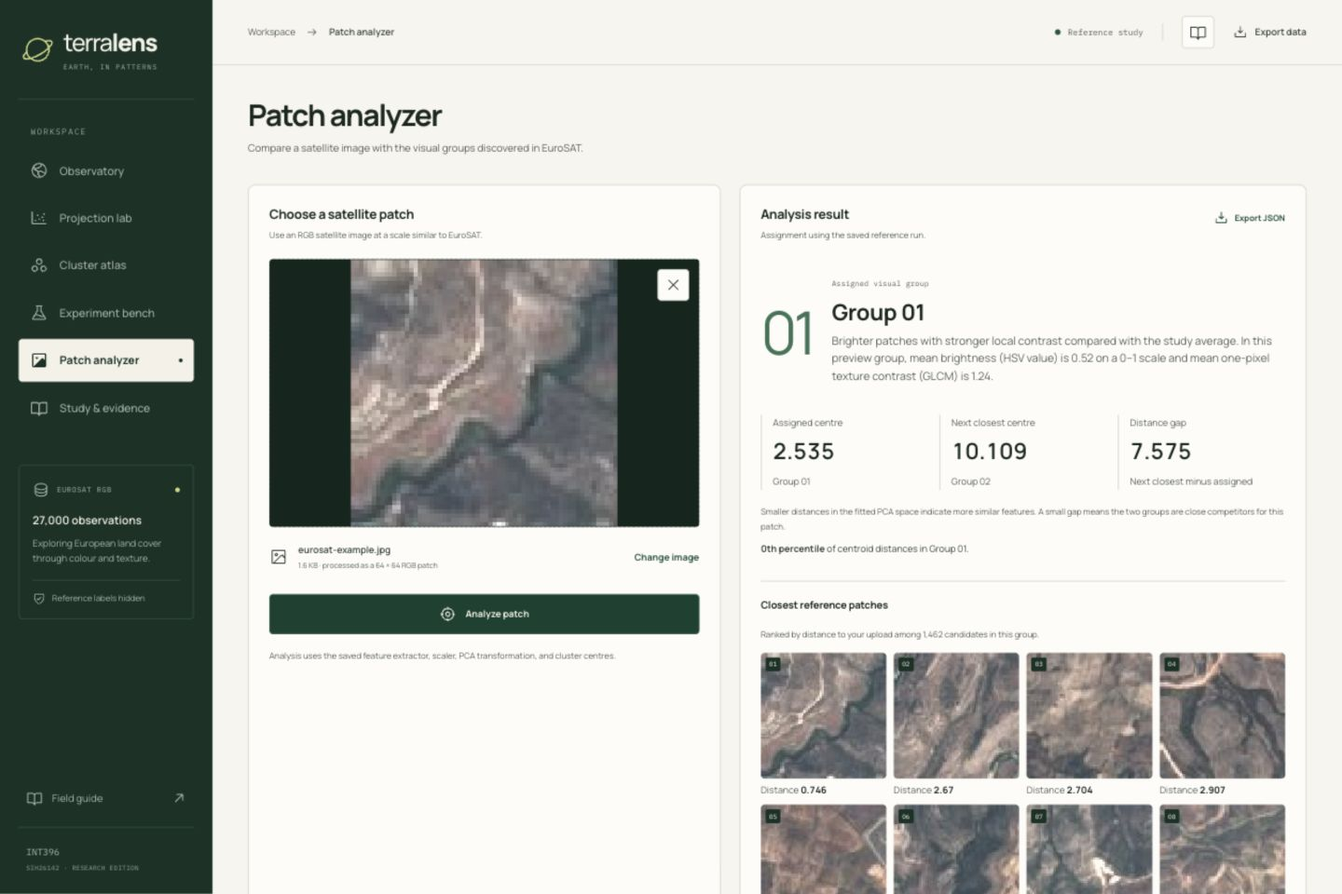
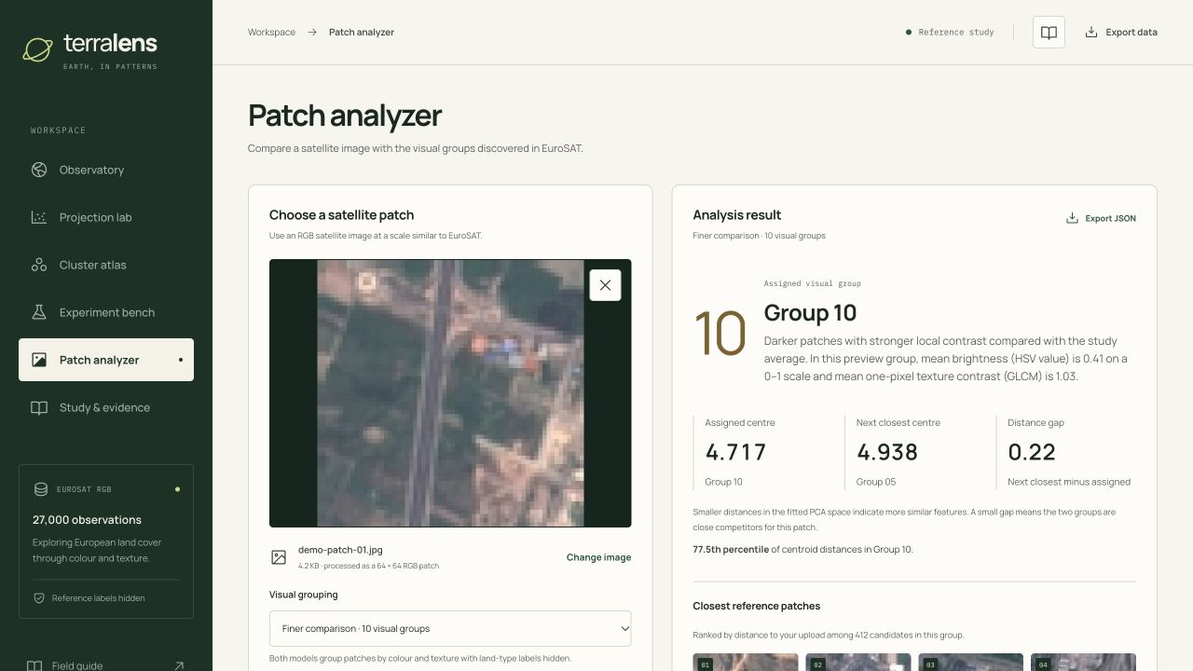
Refresh submission evidence for both upload groupings [skip render]

diff --git a/scripts/build_deliverables.py b/scripts/build_deliverables.py
@@ -451,7 +451,7 @@ def build_report(study, selected, audit, team, links, figures):
         WorkflowDiagram(), Spacer(1, 10),
         table([["Component", "Responsibility"], ["Offline study", "Validate archive, describe images, compare settings and freeze selection"], ["Reference artifacts", "Fitted transforms, centroids, measured JSON and anonymous previews"], ["Online application", "Inspect evidence, run independent bounded jobs and analyse uploads"]], [115, 372]),
         heading("Upload workflow"),
-        para("Upload validation -> RGB conversion and fixed resize -> 78 descriptors -> saved imputer -> saved standardiser -> saved PCA -> nearest saved K-Means centroid -> the result, runner-up gap and ranked neighbours from the assigned group of the bundled reference cohort. The upload uses the frozen transforms and centres."),
+        para("Upload validation -> RGB conversion and fixed resize -> 78 descriptors -> saved imputer -> saved standardiser -> saved PCA -> nearest saved K-Means centroid -> the result, runner-up gap and ranked neighbours from the assigned group of the bundled reference cohort. Users can choose the two-group study reference or the fitted ten-group comparison and rerun the same image. Each mode reports its own groups, nearest examples and separate category mix."),
         heading("Runtime experiments"),
         para("A separate bounded experiment fits its own preprocessing, PCA and K-Means on an anonymous compact study sample. Optional t-SNE uses the same retained PCA cohort. Each live run has its own coordinates and group IDs. The API serialises jobs to control resources and keeps the reference model immutable."),
         heading("Tools and technologies"),
@@ -469,7 +469,7 @@ def build_report(study, selected, audit, team, links, figures):
     shots = [
         ("observatory", "Application: Observatory", "The overview connects genuine patch imagery with the selected reference study, dataset audit and numerical evidence."),
         ("projection-lab", "Application: Projection Lab", "Linked patch identity supports comparison of PCA and saved t-SNE views on the same visual cohort. Parameter settings and interpretation cautions are visible."),
-        ("patch-analyzer", "Application: Patch Analyzer", "A validated upload uses the saved reference pipeline. The result shows both centroid distances, their gap, ranked reference patches and a PCA location. The JSON export captures the result and its interpretation warnings."),
+        ("patch-analyzer", "Application: Patch Analyzer", "The grouping selector applies the fitted two-group reference or ten-group comparison to a validated upload. The result includes both centroid distances, their gap, ranked neighbours and a PCA location. The JSON export identifies the selected run."),
         ("experiment-bench", "Application: Experiment Bench", "This live 200-patch run fits K=3 with 95% PCA and t-SNE perplexity 30. Both plots share patch IDs and K-Means colours. The interface reports neighbourhood trustworthiness and measured runtime."),
         ("reference-audit", "Application: Reference Audit", "The separate audit compares the frozen groups with the EuroSAT categories. Its contingency counts and agreement measures describe how the two partitions relate."),
     ]

diff --git a/docs/CODEBASE_GUIDE.md b/docs/CODEBASE_GUIDE.md
@@ -1,6 +1,6 @@
 # TerraLens codebase guide
 
-Start with a patch in the application, then follow its request through the files below. TerraLens has three numerical workflows with different fitting rules. The offline study fits and selects a reference model. Patch Analyzer applies that model to one image. Experiment Bench fits a new model on a bounded sample of study descriptors.
+Start with a patch in the application, then follow its request through the files below. TerraLens has three numerical workflows with different fitting rules. The offline study fits and selects a reference model. Patch Analyzer applies the reference or the saved ten-group comparison to one image. Experiment Bench fits a new model on a bounded sample of study descriptors.
 
 ## Where to start
 
@@ -16,12 +16,12 @@ Start with a patch in the application, then follow its request through the files
 
 ## Trace one uploaded image
 
-1. Choose a satellite RGB patch in **Patch Analyzer** and click **Analyze patch**. The frontend sends the file as multipart form data to `POST /api/analyze`.
+1. Choose a satellite RGB patch and a visual grouping in **Patch Analyzer**, then click **Analyze patch**. The frontend sends the file as multipart form data to `POST /api/analyze` with the selected run ID.
 2. The analyzer route and `uploads.py` enforce the upload limits, decode the actual image, convert it to RGB and resize it to 64 × 64. The image worker passes the decoded patch to the numerical code and releases the upload buffer after processing.
-3. `features.py` computes the same 78 colour, texture and edge descriptors used offline. `inference.py` applies the fitted imputer, scaler and PCA from `artifacts/model.joblib`. The 2D marker uses the first two PCA coordinates. The centroid comparison uses the full retained PCA vector.
+3. `features.py` computes the same 78 colour, texture and edge descriptors used offline. `inference.py` applies the fitted imputer, scaler and PCA from the fitted model bundle. `model.joblib` holds the study reference, and `comparison-model.joblib` holds the ten-group fit. The 2D marker uses the first two PCA coordinates. The centroid comparison uses the full retained PCA vector.
 4. The frozen K-Means model supplies the group and distances to the assigned and runner-up centroids. The gap is `runner-up distance - assigned distance`. A small gap means those two distances are similar. The reference percentile compares the assigned distance with recorded distances for that group, which helps distinguish a typical assignment from a patch far from its centroid.
 5. The backend ranks compact study patches from the assigned group by their distances to the uploaded patch in retained PCA space and returns up to eight neighbours. `neighbor_scope` records how many candidates it searched. These query-specific neighbours can change when the image changes. The fixed representatives are the patches nearest the group's centroid. The response includes `run_id` so the displayed distances and examples can be traced to that reference.
-6. Open the group category mix separately if asked about land cover. It describes the proportions of EuroSAT reference categories within the **whole assigned group** after the model was frozen. Use it to discuss overlap between visual groups and annotated classes. The percentage refers to the group aggregate and cannot establish the uploaded patch's category.
+6. Open the group category mix separately if asked about land cover. It describes the proportions of EuroSAT reference categories within the **whole assigned group** after the model was frozen. The audit and neighbor list follow the selected run. Use them to discuss overlap between visual groups and annotated classes. The percentage refers to the group aggregate and cannot establish the uploaded patch's category.
 7. Export the analysis JSON. It records the returned coordinates, distances, neighbours, run ID and feature measurements. The export uses the numerical response and excludes the uploaded image bytes.
 
 For a demo, show two different patches and point to the changing neighbour order. Explain the runner-up gap, then open the aggregate category mix to show why a visual group can contain multiple annotated classes. In the browser's network view, match `run_id`, `cluster`, `pca`, `distance`, `alternate_distance`, `margin` and `neighbors` in the `POST /api/analyze` response with the JSON download.
@@ -41,9 +41,9 @@ PCA stores a linear transformation that applies to one new feature vector. The s
 | Artifact | When it is produced | Where it is used |
 | --- | --- | --- |
 | `study.json` and `config.json` | Offline study with fixed seeds and a recorded selection rule | Reference metrics, PCA axes, saved t-SNE comparison, settings and provenance. |
-| `model.joblib` | Offline reference fit on study rows | Saved imputer, scaler, PCA, K-Means and distance distributions for uploaded patches. |
+| `model.joblib` and `comparison-model.joblib` | Offline two-group reference and ten-group comparison fits on study rows | Saved imputer, scaler, PCA, K-Means and distance distributions for uploaded patches. |
 | `compact_features.npz` and `thumbnails/` | Offline selection of anonymous study descriptors and preview images | Bounded live experiments, query-specific neighbour lookup and patch inspection. The raw dataset archive is unnecessary for this demonstration. |
-| `split_manifest.json`, `features.json` and `audit.json` | Offline preparation and post-selection audit | Check the anonymous study/holdout boundary and descriptor definitions. Open the audit to interpret agreement and category proportions after fitting. |
+| `split_manifest.json`, `features.json` and `audit.json` | Offline preparation and post-selection audit | Check the anonymous study/holdout boundary and descriptor definitions. The reference audit and separate `comparison-audit.json` describe category agreement and group proportions after fitting. |
 | Runtime SQLite journal | When the user starts a live experiment | Job history and results. A free host can reset runtime storage. |
 
 The larger offline study precomputes the reference comparisons so opening the site does not download EuroSAT or refit the models. Upload analysis and fresh experiments execute on demand. The reference `study.json` remains the source for the report and the saved study screens.

diff --git a/docs/API_CONTRACT.md b/docs/API_CONTRACT.md
@@ -22,20 +22,20 @@ Returns `{project, dataset, preprocessing, split, quality, feature_names, featur
 ## Other endpoints
 - `GET /health` -> `{status,study_ready,version}`.
 - `GET /patches/{id}.jpg` -> anonymous JPEG, or 404.
-- `GET /audit` -> separate frozen study audit JSON (reference labels used only after fitting/selection).
+- `GET /audit` -> separate frozen study audit JSON (reference labels used only after fitting and selection). Supply `?run_id=pca95-k10-s42` for the ten-group comparison audit when available.
 - `GET /features` -> `{features:[{name,family,description}], ...}`.
 - `POST /experiments` body `{k:2..15,variance:0.9|0.95|0.99,seed:0..9999,sample_size:200..3000,tsne_perplexity:10|30|50|null}` -> `{id,status}`. Backend may cap hosted samples, explicitly advertise in `/capabilities`.
 - `GET /experiments/{id}` -> `{id,status:queued|running|completed|failed,stage,config,result?:{...run,points:[{id,pca,cluster,tsne?}],tsne?:{perplexity,trustworthiness,runtime_seconds},...},error?:string}`. An optional new t-SNE fit runs on the same retained PCA features and uses the same point IDs and existing K-Means group colours.
 - `GET /experiments` -> `{experiments:[job...]}` newest first.
-- `POST /analyze` multipart `file` -> `{run_id,cluster,cluster_description,pca:[x,y],distance,alternate_cluster,alternate_distance,margin,relative_distance,reference_percentile,representatives:string[],neighbors:[{id,distance}],neighbor_scope,features:[{name,value,zscore}],warnings:string[]}`. No class probability or t-SNE coordinate. Distances and neighbors use the full retained PCA space. Neighbors are ranked within the assigned group of the bundled preview cohort. The browser can export this response as JSON without the input image.
+- `POST /analyze` multipart `file` and optional `?run_id=pca95-k10-s42` -> `{run_id,cluster,cluster_description,pca:[x,y],distance,alternate_cluster,alternate_distance,margin,relative_distance,reference_percentile,representatives:string[],neighbors:[{id,distance}],neighbor_scope,features:[{name,value,zscore}],warnings:string[],cohort_clusters?:number[]}`. The reference run is the default. The comparison returns `cohort_clusters` in the order of `study.points`. Distances and neighbors use the full retained PCA space. Neighbors are ranked within the assigned group of the bundled preview cohort. The browser can export this response as JSON without the input image.
 - `GET /export/study.json`, `/export/metrics.csv`, `/export/config.json` -> downloadable recorded data. `GET /export/experiments/{id}.json` downloads a runtime job record.
-- `GET /capabilities` -> `{max_experiment_samples,live_tsne:true,max_live_tsne_samples,upload_max_bytes,storage,reference_run_id}`.
+- `GET /capabilities` -> `{max_experiment_samples,live_tsne:true,max_live_tsne_samples,upload_max_bytes,storage,reference_run_id,analysis_runs:string[]}`. Only bundled analysis runs are selectable.
 
 FastAPI serves `/` and built frontend assets if `frontend/dist` exists. Vite dev proxies `/api` to `http://127.0.0.1:8000`. Frontend reads only this contract and must not fabricate fallback numbers if data unavailable.
 
 ## ML Python integration
 `backend/terralens/features.py`: `extract_features(PIL.Image)->np.ndarray`, `FEATURE_NAMES`, feature dictionary.
-`backend/terralens/inference.py`: `analyze_image(image, artifacts_dir)->dict` applies saved transforms and ranks reference patches.
+`backend/terralens/inference.py`: `analyze_image(image, artifacts_dir, *, comparison=False)->dict` applies saved transforms and ranks reference patches.
 
 `backend/terralens/experiments.py`: `run_experiment(config, artifacts_dir)->dict` fits independently on the compact study feature matrix. The route modules in `backend/terralens/api/` handle the HTTP contract.
 `scripts/prepare_study.py`: runnable full download/study command, configurable performance bounds; stores compact inference artifacts and reference JSON in `artifacts/`.

diff --git a/docs/VERIFICATION.md b/docs/VERIFICATION.md
@@ -1,5 +1,18 @@
 # Verification record
 
+## Two- and ten-group upload comparison
+
+TerraLens 1.2 adds a grouping choice to Patch Analyzer. Both example patches reuse the same 28-component PCA representation in both modes. The fitted centroids, neighbor ranking and group-level category audit follow the selected run.
+
+| Held-out upload | Two-group reference | Ten-group comparison |
+| --- | --- | --- |
+| `demo-patch-01.jpg` | Group 01 | Group 10 |
+| `demo-patch-02.jpg` | Group 02 | Group 04 |
+
+The 29-test suite passed, including comparison assignment, shared PCA coordinates, ordered cohort groups, run selection validation and reference-only artifact compatibility. The production frontend build passed. On Render 1.2, both held-out images returned the expected results in both modes. In the deployed browser, changing models kept the selected image, cleared the result and displayed the new group, its matching neighbors and its separately loaded category mix after analysis. The deployed result also fit a 375 px viewport. The local patch inspector identified the K=10 comparison. Full study reproduction and comparison-only regeneration both produced the ten-group model and audit.
+
+## Reference and live experiment checks
+
 TerraLens 1.1 preserves the frozen reference run `pca95-k2-s42` and its evidence from 27,000 EuroSAT RGB patches. The upgrade adds query-specific image analysis and optional live t-SNE.
 
 ## Application checks
@@ -45,4 +58,4 @@ Current application screenshots are in `docs/screenshots/`. Reference evidence r
 
 For this follow-up audit, the original split IDs were matched to the full descriptor cache. The frozen imputer, scaler and first 28 PCA components transformed the study and holdout rows. The comparison used `KMeans(n_clusters=10, n_init=10, random_state=42)` on study rows only. Its inertia matched the recorded run within floating-point tolerance. Reference labels were loaded only after fitting and generating both sets of holdout assignments. The common-space silhouette values are from the stored study comparison. The external agreement values use all 5,400 holdout rows.
 
-The K=10 groups show higher agreement with the reference labels and weaker geometric separation in the common descriptor space. Assigning each K=10 group its most common **study** label gave 52.65% accuracy and 0.442 macro F1 on the holdout. This simple mapping predicted eight categories and missed Highway and Pasture entirely. One river-leading group contained 379 River patches among 1,205 holdout members. The mapping is an offline diagnostic only. The deployed analyzer returns the frozen visual group and presents reference category proportions separately.
+The K=10 groups show higher agreement with the reference labels and weaker geometric separation in the common descriptor space. Assigning each K=10 group its most common **study** label gave 52.65% accuracy and 0.442 macro F1 on the holdout. This simple mapping predicted eight categories and missed Highway and Pasture entirely. One river-leading group contained 379 River patches among 1,205 holdout members. The mapping is an offline diagnostic only. The analyzer returns the visual group for the selected fitted model and presents reference category proportions separately.

diff --git a/docs/VIVA_40.md b/docs/VIVA_40.md
@@ -66,13 +66,13 @@ Use these to practise speaking, then demonstrate the answer in the application o
 
 32. **What if external agreement is low?** Then these descriptors and this clustering objective have not recovered the annotated categories well. We discuss the visual structure actually found and propose justified extensions rather than relabeling the result as success.
 
-33. **How do you assign an uploaded image?** The saved feature extractor, imputer, scaler and PCA transform the patch. Saved K-Means assigns the nearest reference centroid. The backend compares the next closest centroid and ranks candidate reference patches by Euclidean distance across the retained PCA components.
+33. **How do you assign an uploaded image?** The same feature extractor, imputer, scaler and PCA transform the patch. The chosen K-Means fit assigns the nearest centroid from either two or ten centers. The backend compares the next closest centroid and ranks candidate patches within the assigned group using Euclidean distance across the retained PCA components.
 
 34. **Is the distance percentile a confidence score?** No. It compares distance with empirical reference distances inside the assigned group. It is not calibrated probability and does not prove the image belongs to the dataset distribution.
 
 35. **Why no t-SNE point for uploads?** The scikit-learn t-SNE implementation does not provide a saved transform for arbitrary new points. Faking a coordinate would misrepresent the method; we show PCA coordinates instead.
 
-36. **What does the backend do?** FastAPI validates uploads and experiment settings. Its inference route reuses the frozen model. Its experiment route queues a separate fit with optional t-SNE, records the result in SQLite and provides a JSON export.
+36. **What does the backend do?** FastAPI validates uploads and experiment settings. Its inference route reuses the selected fitted model and provides the matching category audit on a separate request. Its experiment route queues a separate fit with optional t-SNE, records the result in SQLite and provides a JSON export.
 
 37. **What does the frontend do?** React displays six connected views, lets users inspect the same patch across projections, compare settings, inspect groups, fit bounded experiments and analyse uploaded patches. It renders the API response and exports the measured results.
 

diff --git a/docs/ARCHITECTURE.md b/docs/ARCHITECTURE.md
@@ -2,7 +2,7 @@
 
 ## System boundaries
 
-TerraLens has an offline study pipeline and an online inspection application. The offline pipeline creates an immutable reference study and a fitted model. The application reads those artifacts, performs independent bounded experiments and applies the saved reference pipeline to uploaded images.
+TerraLens has an offline study pipeline and an online inspection application. The offline pipeline creates an immutable reference study and a fitted model. The application reads those artifacts, performs independent bounded experiments and applies a fitted two-group or ten-group pipeline to uploaded images.
 
 ```mermaid
 flowchart LR
@@ -52,12 +52,12 @@ The definitive typed payload contract is `API_CONTRACT.md`. The base path is `/a
 | `GET /study` | Return the immutable public reference bundle |
 | `GET /features` | Return feature names, families and definitions |
 | `GET /patches/{id}.jpg` | Return a validated anonymous preview image |
-| `GET /audit` | Open the separate post-selection reference-label audit |
+| `GET /audit` | Open the separate post-fit label audit for a supported run |
 | `GET /capabilities` | Advertise actual host limits and storage behaviour |
 | `POST /experiments` | Submit bounded K, variance, seed, sample size and optional t-SNE perplexity |
 | `GET /experiments` | List recent experiment jobs |
 | `GET /experiments/{id}` | Poll status, stage, result or failure |
-| `POST /analyze` | Validate an image and apply the saved reference pipeline |
+| `POST /analyze` | Validate an image and apply the chosen fitted grouping |
 | `GET /export/study.json` | Download the study record |
 | `GET /export/metrics.csv` | Download recorded numerical metrics |
 | `GET /export/config.json` | Download reproducibility settings |
@@ -76,7 +76,7 @@ sequenceDiagram
   U->>R: Choose image
   R->>A: POST /api/analyze (multipart file)
   A->>A: Check size, format and decoding
-  A->>P: Extract descriptors and transform
+  A->>P: Extract descriptors and transform for selected run
   P->>P: Assign nearest centroid and rank neighbors
   P-->>A: Group, runner-up, PCA coordinates and evidence
   A-->>R: JSON with interpretation warnings

diff --git a/README.md b/README.md
@@ -52,11 +52,13 @@ PYTHONPATH=backend .venv/bin/python scripts/prepare_study.py
 
 The full run downloads/verifies the original archive, validates and hashes images, extracts documented features, makes a seeded anonymous split, fits numerical transformations on study rows, executes the comparison study, freezes selection and writes a separate reference audit. It can take several minutes or longer depending on the machine and download connection. Read the script's help for performance bounds. Back up `artifacts/` before deliberately replacing a published reference study.
 
+To rebuild just the ten-group model and its separate audit against the recorded study, run `.venv/bin/python scripts/prepare_study.py --comparison-only`.
+
 Precomputed reference results are explicitly identified in the interface; they are measurements, not simulated responses. Live experiments fit an independent bounded sample of anonymous study descriptors. Their PCA axes and cluster IDs belong to that run and are not automatically aligned with the reference view.
 
 ## Try the live workflows
 
-- In **Patch Analyzer**, upload the two [held-out example patches](examples/README.md) one at a time. Compare the visual group, runner-up centroid gap, ranked reference neighbors and JSON exports.
+- In **Patch Analyzer**, upload the two [held-out example patches](examples/README.md) one at a time. Analyze each image with the two-group reference, then switch to the ten-group comparison and run the same file again. Compare its group, runner-up centroid gap, ranked neighbors and the separate category mix.
 - In **Experiment Bench**, select K=3, 95% PCA, seed 42, 200 patches and t-SNE perplexity 30. The backend fits a fresh run and returns matched PCA and t-SNE views. The run has its own cluster numbering.
 - Read the [codebase walkthrough](docs/CODEBASE_GUIDE.md) to trace each request through the frontend, API and numerical modules.
 

diff --git a/docs/LEARNING_GUIDE.md b/docs/LEARNING_GUIDE.md
@@ -109,7 +109,7 @@ Choose a bounded sample size, K, variance target and seed in Experiment Bench. T
 
 ### Analyse a new patch
 
-The API validates and decodes the image, extracts the same 78 descriptors, then calls the saved imputer, scaler, PCA and K-Means in that order. It returns the assigned cluster, PCA coordinate, the closest two centroid distances, and up to eight ranked neighbors in the assigned group of the anonymous preview cohort. The PCA chart shows two components while the ranking uses all retained components. A reference-distance percentile describes how far the input is from its centroid compared with that group's reference distances. It is not a calibrated probability, certainty score, or validated out-of-distribution detector.
+The API validates and decodes the image, extracts the same 78 descriptors, then calls the saved imputer, scaler, PCA and K-Means in that order. The analyzer can use either the selected two-group reference or the frozen ten-group contrast. It returns the assigned cluster, PCA coordinate, the closest two centroid distances, and up to eight ranked neighbors in the assigned group of the anonymous preview cohort. The PCA chart shows two components while the ranking uses all retained components. A reference-distance percentile describes how far the input is from its centroid compared with that group's reference distances. It is not a calibrated probability, certainty score, or validated out-of-distribution detector.
 
 ## 10. Trace the code
 

diff --git a/examples/README.md b/examples/README.md
@@ -2,9 +2,9 @@
 
 Upload these two genuine EuroSAT RGB patches one at a time in **Patch Analyzer**. Both come from the 5,400-patch holdout. For each group, the example is the holdout patch closest to its fitted centre in retained PCA space. Selection used no category labels.
 
-| File | Anonymous holdout ID | Reference assignment |
-| --- | --- | --- |
-| [demo-patch-01.jpg](demo-patch-01.jpg) | `p1391c3b2c6d63e7a7730` | Group 01 |
-| [demo-patch-02.jpg](demo-patch-02.jpg) | `pffd634011e390964df09` | Group 02 |
+| File | Anonymous holdout ID | Two-group reference | Ten-group comparison |
+| --- | --- | --- | --- |
+| [demo-patch-01.jpg](demo-patch-01.jpg) | `p1391c3b2c6d63e7a7730` | Group 01 | Group 10 |
+| [demo-patch-02.jpg](demo-patch-02.jpg) | `pffd634011e390964df09` | Group 02 | Group 04 |
 
-Compare the brightness and local texture descriptions, the runner-up distance gap, and the nearest reference patches. These examples demonstrate the response to different inputs. The data source and attribution are recorded in `artifacts/study.json` and `artifacts/EUROSAT_LICENSE.txt`.
+Keep the image selected when you change the grouping, then click **Analyze patch** again. Compare the brightness and local texture descriptions, the runner-up distance gap, and the nearest reference patches. Group numbers belong to each fitted model. The data source and attribution are recorded in `artifacts/study.json` and `artifacts/EUROSAT_LICENSE.txt`.

diff --git a/docs/DEMO_WALKTHROUGH.md b/docs/DEMO_WALKTHROUGH.md
@@ -46,7 +46,7 @@ Run K=3 with 95% PCA, seed 42, 200 patches and t-SNE perplexity 30. Show the mat
 
 ### Patch Analyzer
 
-Upload `demo-patch-01.jpg`, then `demo-patch-02.jpg`. The expected outputs are Group 01 and Group 02. Trace the 78 descriptors, saved preprocessing and nearest-centroid assignment. Show the runner-up gap and ranked reference patches. The gap is the second-smallest centroid distance minus the smallest one. If asked about land type, open the separate category mix and explain that it describes the frozen group, then export the individual analysis JSON.
+Start with the two-group reference. Upload `demo-patch-01.jpg`, then `demo-patch-02.jpg`. The expected outputs are Group 01 and Group 02. Keep the second image selected, switch to the ten-group comparison, and analyze it again. Explain that the same image uses the same PCA coordinates while the centroid assignment and nearby reference patches come from the selected grouping. Trace the 78 descriptors, saved preprocessing and nearest-centroid assignment. Show the runner-up gap and ranked reference patches. The gap is the second-smallest centroid distance minus the smallest one. If asked about land type, open the separate category mix and explain that it describes the frozen group, then export the individual analysis JSON.
 
 ### Study & Evidence
 
